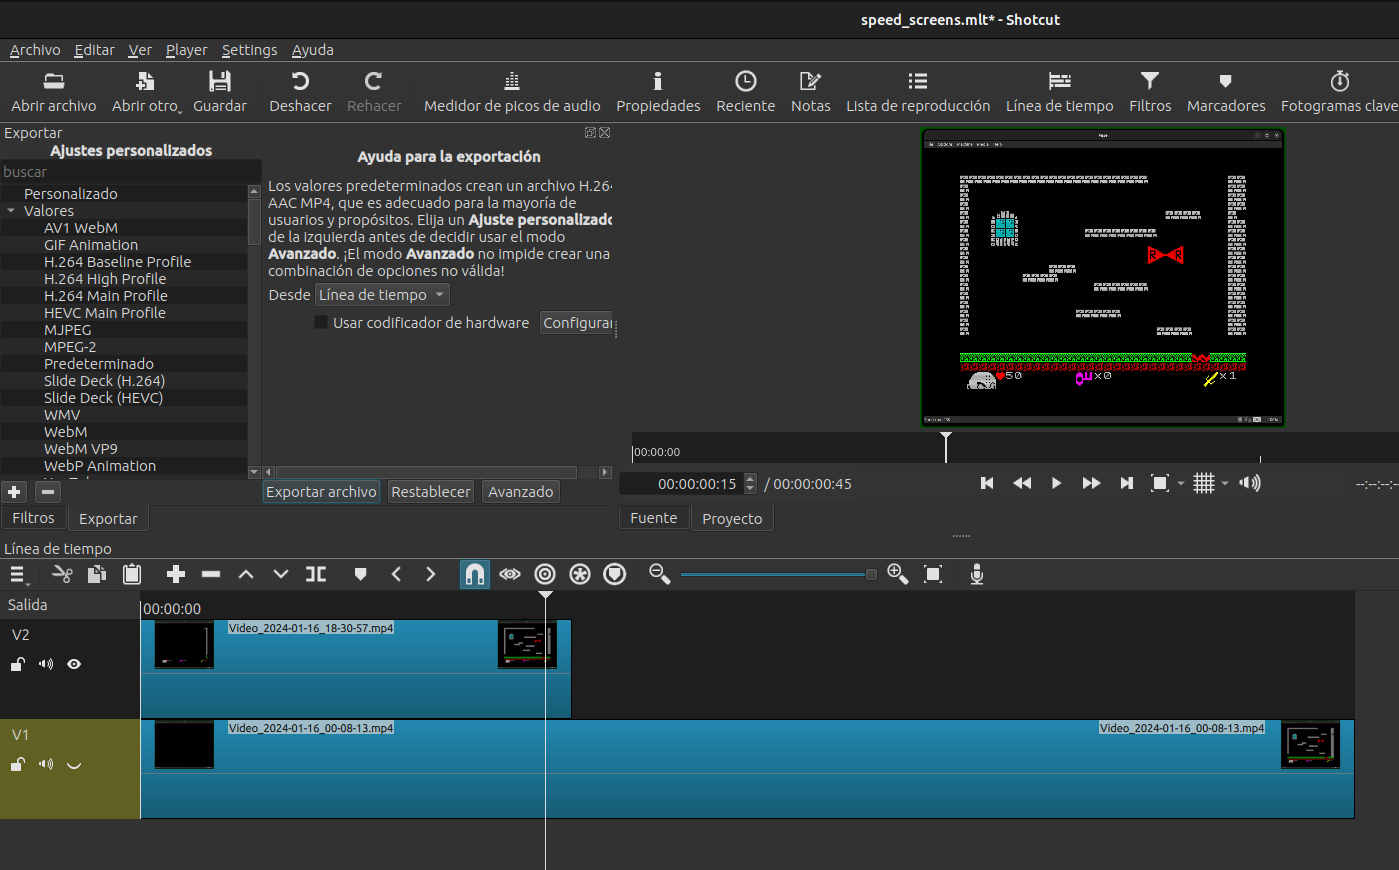
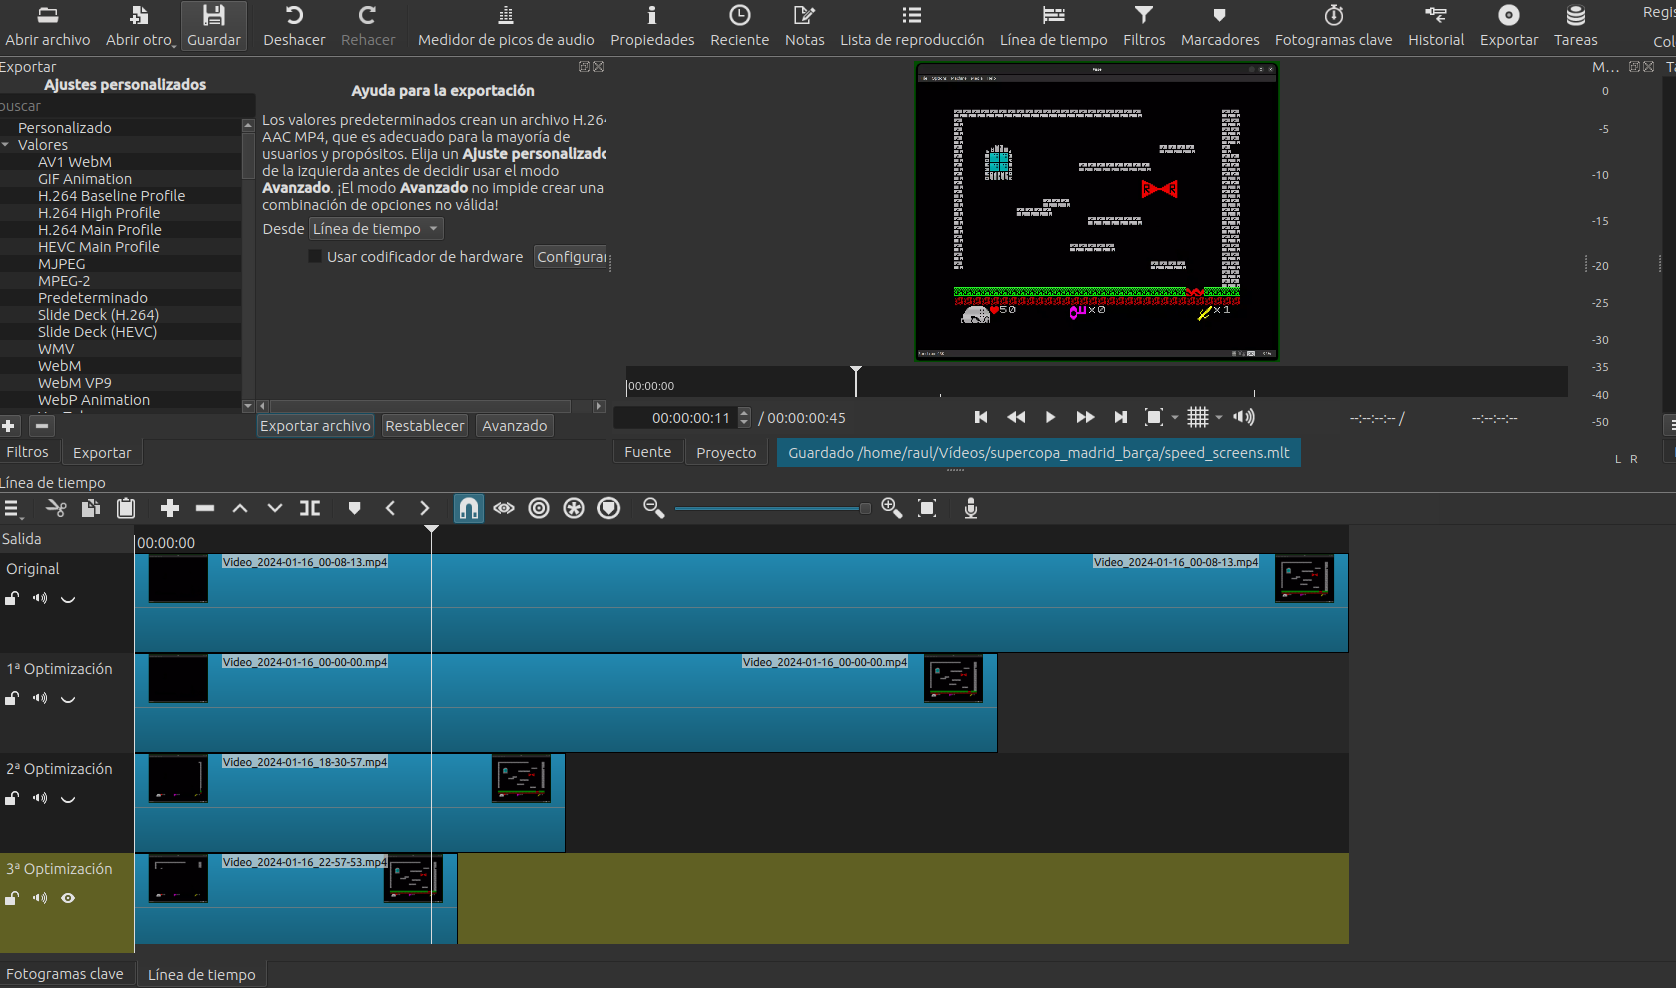
add release notes

diff --git a/pages/mydoc/mydoc_release_notes_2024_01_16.md b/pages/mydoc/mydoc_release_notes_2024_01_16.md
@@ -18,7 +18,7 @@ folder: mydoc
 ![](images/memory.png)
 
 ## Mejoras técnicas
-* Optimizada la velocidad de carga de pantalla en un 66,6%. De 45 a 15 frames.
+* Optimizada la velocidad de carga de pantalla en un 75,5%. Tras 3 optimizaciones se ha rebajado el tiempo de carga de 45 a 11 frames.
 
 ![](images/mejora_carga_pantalla.png)
 
